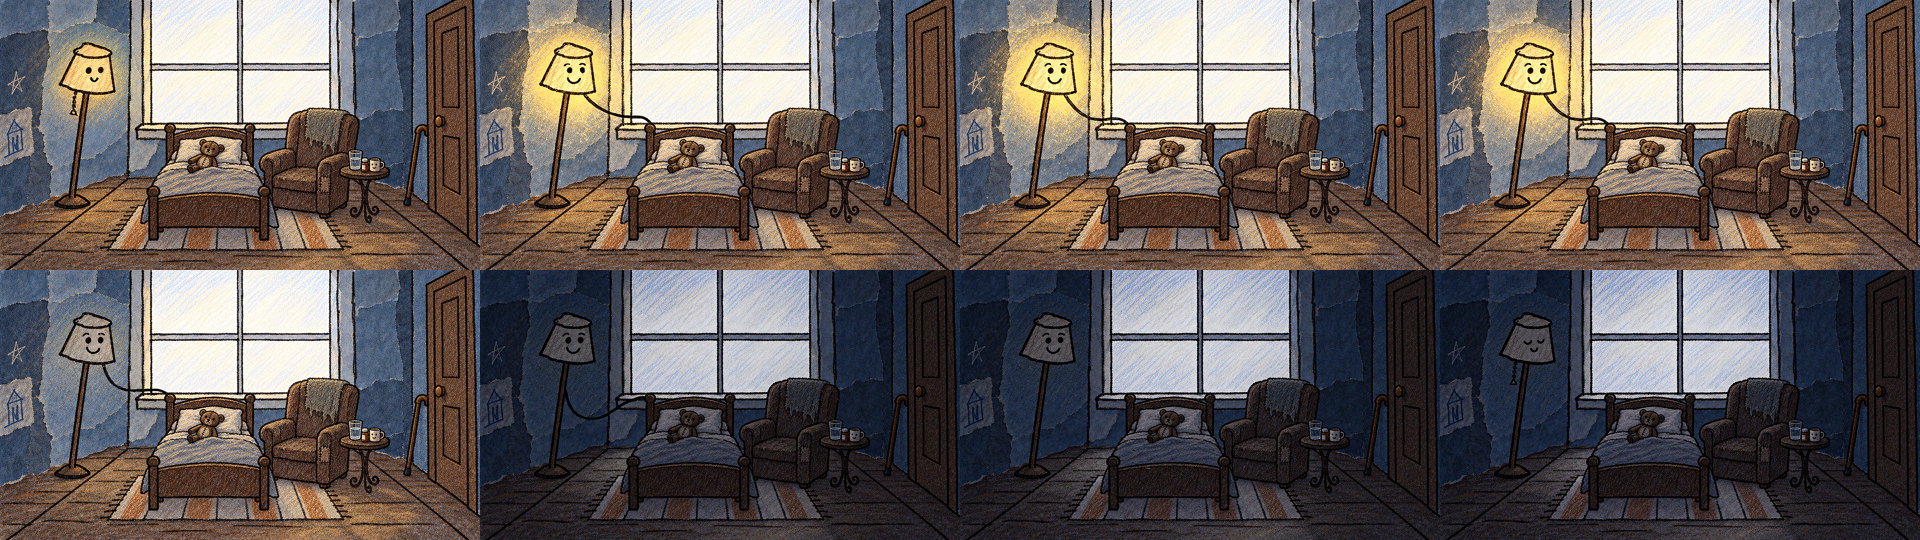
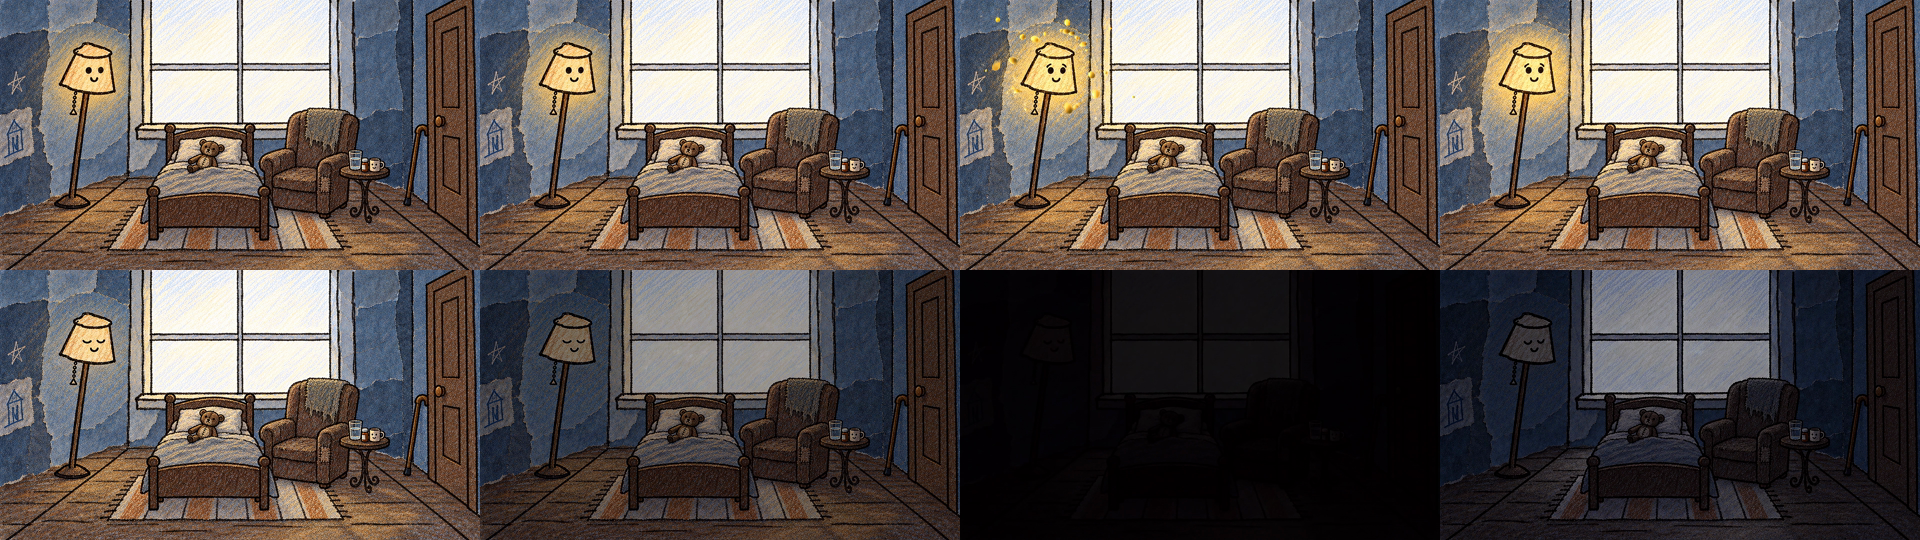
All 8 stages and a 48 s silent preview of the film

diff --git a/docs/log.md b/docs/log.md
@@ -196,3 +196,10 @@ Newest entries at the bottom. Times are CET on Nov 5, 2026. Each entry says what
 - **Good:** S2 (child's bed centred, ball rolls, lamp bounces; clean), S3 (door slams, room shakes; clean), S4 (door opens, bear leans, door closes; good story beat), S6 (autumn dusk, all consistent), S7 (bed with rails, armchair, tree).
 - **Flaws to fix by re-run or trim:** S5 bedding balloons into an arch at about 4.5 s and the lamp leans far over; S7 the armchair tips over at about 3-4 s; S6 the door opens partly (spec said closed) and the lamp leans far at about 1 s; S4 the door opens wider than a crack; lamp pole bends in S2, S3, S5.
 - Balance $N of 610,000 (counter lags; each subagent used about 4,000-8,000).
+
+### 20:45 · All 8 stages made; silent preview of the whole film (48 s)
+- Stage 8 returned (final second run; the first had a black power cable popping in and out, fixed with "no cable, no wire"). Flaws: small yellow sparkle dots around the lamp at about 2 s, the room goes almost black at 4.5-5 s and the last frame is a dim blue-grey, the lamp stands more upright than in the still.
+- Joined stage 1 (`exports/first6_B2_silent.mp4`) and stages 2-8 by hard cut: `exports/film_B_silent_preview.mp4`, 1920x1080, 24 fps, 48.000 s, no audio. A contact sheet: `stills/film_preview_sheet.png`. Not yet watched in real time by the assistant.
+- Real clock check: it is 20:45, not later; deadline 22:30. The assistant had wrongly said a later time earlier.
+- Balance $N of 610,000 (counter lags).
+- Re-run candidates, in order: S5 (bedding balloons, lamp leans), S7 (armchair tips over), S6 (door opens, lamp leans), S8 (dark frame and dots), S4 (door opens wider than a crack).
